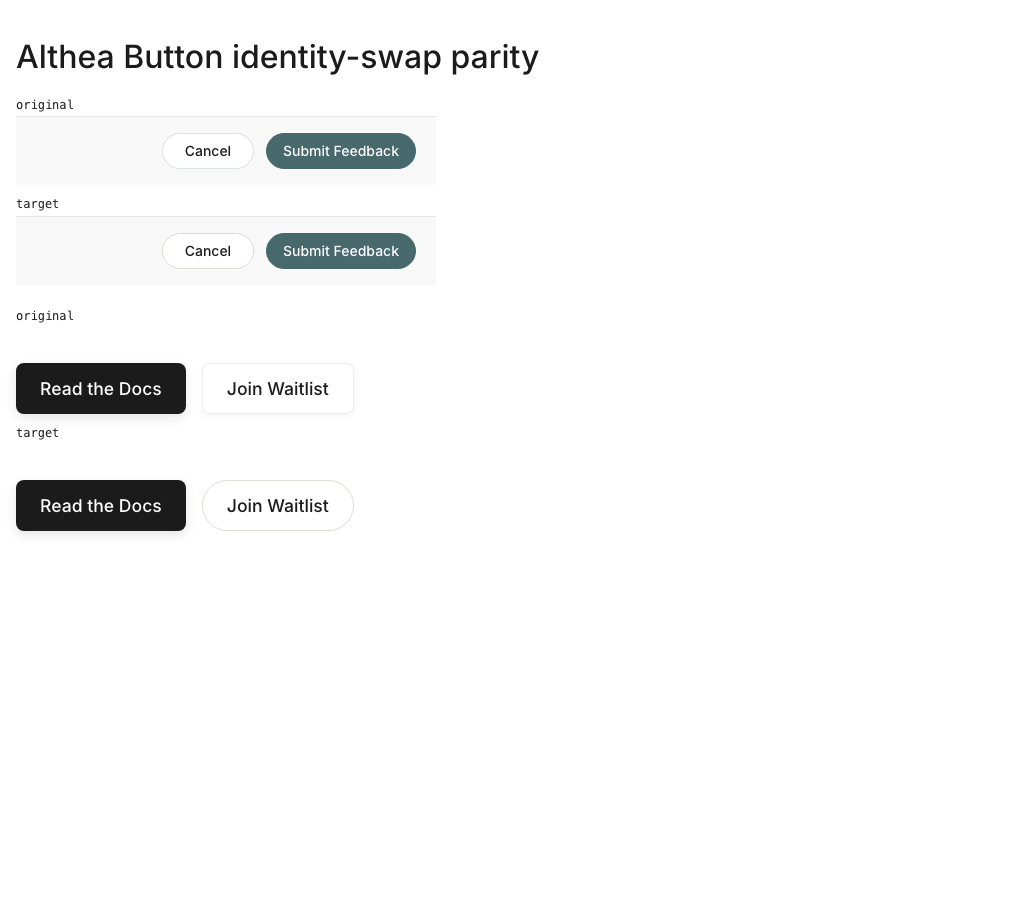
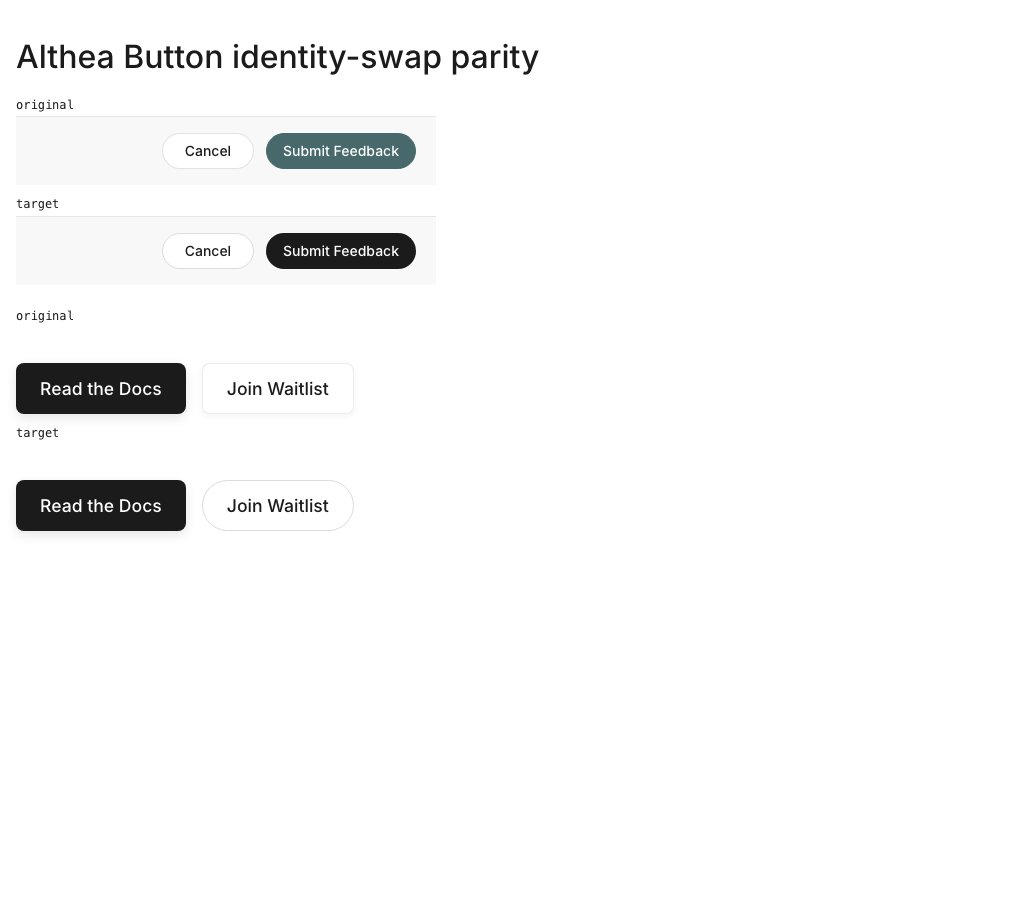
Add Button border-width geometry knob and Submit parity proof

Changed region(s): [[0.25, 0.2489, 0.4062, 0.3111]]

diff --git a/css/components/button.css b/css/components/button.css
@@ -24,7 +24,9 @@
     padding: var(--tt-btn-padding, 1px 14px);
     gap: var(--tt-btn-gap, 8px);
     white-space: nowrap;
-    border: 0 solid transparent;
+    border-width: var(--tt-btn-border-width, 0px);
+    border-style: solid;
+    border-color: transparent;
     border-radius: var(--tt-radius-full);
     font-family: var(--tt-font-sans);
     font-size: var(--tt-btn-font-size, 13px);
@@ -50,8 +52,8 @@
 
 /*
  * Geometry presets are convenience assignments over the sanctioned component
- * knobs. Consumers that need context-specific geometry set the same six knobs
- * on their own class; identity properties remain library-owned.
+ * knobs. Consumers that need context-specific geometry set the same seven
+ * knobs on their own class; identity properties remain library-owned.
  *
  * Updated docs Button provenance:
  *   docs/docs_server/web/src/styles/components/button.css:29-48
@@ -89,7 +91,7 @@
 .tt-btn--primary:hover { background: var(--tt-color-accent); color: var(--tt-brand-white); }
 .tt-btn--secondary {
     background: var(--tt-color-button-secondary-bg);
-    border-width: 1px;
+    --tt-btn-border-width: 1px;
     border-color: var(--tt-color-button-secondary-border);
     color: var(--tt-color-text-primary);
 }
@@ -101,6 +103,6 @@
 /* Secondary identity uses a hairline, halved on high-density displays. */
 @media (resolution >= 192dpi) {
     .tt-btn--secondary {
-        border-width: 0.5px;
+        --tt-btn-border-width: 0.5px;
     }
 }

diff --git a/showcase/index.html b/showcase/index.html
@@ -30,6 +30,7 @@
     --tt-btn-gap: 6px;
     --tt-btn-font-size: 14.4px;
     --tt-btn-line-height: normal;
+    --tt-btn-border-width: 0px;
   }
   .toggle { position: fixed; top: 16px; right: 16px; }
   .version { color: var(--tt-color-text-tertiary); font-size: 0.75rem; }
@@ -51,7 +52,7 @@
   <div class="swatches" id="semantic"></div>
 
   <h2>Button — tt-btn</h2>
-  <p class="lede">The library owns identity while consumers own contextual geometry through six custom properties. Presets and one real consumer-owned profile are shown simultaneously in both themes.</p>
+  <p class="lede">The library owns identity while consumers own contextual geometry through seven custom properties. Presets and one real consumer-owned profile are shown simultaneously in both themes.</p>
   <div class="theme-grid">
     <section class="theme-panel" data-theme="dark">
       <h3>Dark theme</h3>

diff --git a/docs/button-identity-deltas.md b/docs/button-identity-deltas.md
@@ -35,6 +35,22 @@ Rendered evidence is in `docs/evidence/parity-lacuna-button-v0.3.0.png` and
 | Hover text | `rgb(27, 27, 27)` | `rgb(27, 27, 27)` |
 | Hover border | `rgba(71, 105, 107, 0.34)` | `rgb(220, 220, 212)` |
 
+### Althea Submit Feedback
+
+| Identity property | Before | After |
+|---|---|---|
+| Background | `rgb(71, 105, 107)` | `rgb(27, 27, 27)` |
+| Text | `rgb(255, 255, 255)` | `rgb(255, 255, 255)` |
+| Border | `rgb(71, 105, 107)` | `rgba(0, 0, 0, 0)` |
+| Radius | `999px` | `9999px` |
+| Font | Althea Inter stack, weight `500` | Tiptree Inter stack, weight `510` |
+| Hover background | `rgb(53, 88, 90)` | `rgb(71, 105, 107)` |
+| Hover text | `rgb(255, 255, 255)` | `rgb(255, 255, 255)` |
+| Hover border | `rgb(53, 88, 90)` | `rgba(0, 0, 0, 0)` |
+
+Its original 1px border geometry is preserved through
+`--tt-btn-border-width`; border style and color remain library identity.
+
 ### Althea Platform Join Waitlist
 
 | Identity property | Before | After |
@@ -58,7 +74,7 @@ before any consumer branch is considered for production adoption.
 |---|---|---|
 | Lacuna Read Paper action | Reverted | Candidate width changed `120.4375px` → `119.234375px`, shifting its adjacent metadata by `1.203125px`; the identity font weight changed intrinsic width. |
 | Lacuna Read Paper link | Not migrated | A measured candidate was within tolerance, but Button-styled navigation-link migration is explicitly outside v0.3 scope. |
-| Althea Submit Feedback | Reverted | Candidate border changed `1px` → `0px`, width changed `150.078125px` → `148.078125px`, and the neighboring Cancel position shifted `2px`. |
+| Althea Submit Feedback | Resolved and retained | The initial six-knob candidate failed because border width changed `1px` → `0px`. With the approved seventh geometry knob set to `1px`, width, border widths, parent, and sibling positions all match at `0.000px` across desktop/mobile and DPR 1/2. |
 
-These failures were not hidden with app-specific width adjustments. The final
-consumer branches retain their original implementations.
+The remaining failure was not hidden with an app-specific width adjustment.
+Lacuna Read Paper retains its original implementation.

diff --git a/specs/button.md b/specs/button.md
@@ -1,4 +1,4 @@
-# Button — component contract v1.2
+# Button — component contract v1.3
 
 Seeded from the former docs-new Button and reconciled against the updated docs
 Button, Lacuna, and Althea. The contract every binding is conformance-tested
@@ -43,6 +43,7 @@ properties:
 | `--tt-btn-gap` | content/icon gap | `8px` |
 | `--tt-btn-font-size` | font size | `13px` |
 | `--tt-btn-line-height` | line height | `normal` |
+| `--tt-btn-border-width` | border width in the box model | `0px` |
 
 Set knobs on a consumer-owned class attached to the same element; never
 redeclare `.tt-btn` or another `.tt-*` rule:
@@ -55,6 +56,7 @@ redeclare `.tt-btn` or another `.tt-*` rule:
   --tt-btn-gap: 6px;
   --tt-btn-font-size: 14.4px;
   --tt-btn-line-height: normal;
+  --tt-btn-border-width: 0px;
 }
 ```
 
@@ -64,8 +66,11 @@ icon/layout CSS.
 
 ### Presets
 
-The three library presets are convenience assignments over the same six knobs,
-seeded from the updated docs Button:
+The three library size presets assign the six size-related knobs, seeded from
+the updated docs Button. Border width is independent of size: identity variants
+provide their default (`secondary` is `1px`, with its existing high-density
+hairline), and a consumer sets `--tt-btn-border-width` only when preserving a
+source control's box geometry.
 
 | Preset | Height / min-height | Padding | Gap | Font size / line height | Provenance |
 |---|---|---|---|---|---|
@@ -80,6 +85,10 @@ rationalization evidence, not public library variants.
 Border radius is identity, not geometry. A migration may therefore change a
 control's radius even when its layout tuple remains exact; every radius delta is
 recorded alongside color and other identity deltas for designer review.
+Border width is geometry because it participates in the box model; border style
+and border color remain identity. Font family and weight also remain identity
+and have no knobs. If either changes intrinsic dimensions beyond the parity
+tolerance, that usage is rejected rather than given a font-weight override.
 
 ## Behavior & accessibility (engineer-owned)
 

diff --git a/docs/DECISION_LEDGER.md b/docs/DECISION_LEDGER.md
@@ -153,3 +153,31 @@ Append-only record of scope decisions, pinned integration inputs, and acceptance
   emulation even while the high-density media query matches. A physical-device
   browser check remains prudent before a production merge; no result is
   fabricated from the CSS declaration alone.
+
+## 2026-07-24 — Border-width geometry knob and Submit re-proof
+
+- Decision owner: Richard. Border width is the seventh sanctioned Button
+  geometry knob because it participates in the box model. Border style and
+  color remain library identity.
+- Font family and weight remain library identity with no consumer override.
+  When they change intrinsic dimensions beyond the `0.5px` gate, the usage is
+  rejected; Lacuna Read Paper therefore remains unmigrated.
+- Althea Submit Feedback sets `--tt-btn-border-width: 1px` on its existing
+  consumer geometry class. Height, min-height, width, padding, gap, font size,
+  line height, all four border widths, parent bounds, and sibling positions
+  match at `0.000px` across desktop/mobile and DPR 1/2.
+- Submit is retained on the local `tt/button-parity` branch. Its teal-to-black
+  background, transparent border color, radius, hover, and font-weight changes
+  are recorded in `docs/button-identity-deltas.md` for designer approval.
+- Replacement unpublished v0.3.0 npm candidate:
+  `/Users/richardngo/Desktop/Work/Upwork/Tiptree/design-system/dist/npm/tiptree-design-system-0.3.0.tgz`;
+  8,053 bytes; SHA-256
[1 lines of base64/hex data omitted]
+- Replacement unpublished v0.3.0 Python candidate:
+  `/Users/richardngo/Desktop/Work/Upwork/Tiptree/design-system/dist/py312/tiptree_ui-0.3.0-py3-none-any.whl`;
+  13,078 bytes; SHA-256
[1 lines of base64/hex data omitted]
+- These candidates supersede the earlier local v0.3.0 artifacts above. Version
+  remains v0.3.0 because no v0.3.0 artifact has been published or tagged.
+- Final bounded outcome: four retained identity swaps, one rejected for
+  geometry, and one navigation-link usage not migrated by scope.

diff --git a/docs/button-parity-inventory.md b/docs/button-parity-inventory.md
@@ -295,6 +295,20 @@ deltas for designer review.
   anchor-policy ruling.
 
 The full computed identity comparison for retained usages is in
-`docs/button-identity-deltas.md`. Both rejected candidates remain valuable
-evidence: the six geometry knobs cannot preserve layout when a library-owned
-identity property itself changes intrinsic geometry.
+`docs/button-identity-deltas.md`. Both initially rejected candidates remain
+valuable evidence: the original six geometry knobs could not preserve layout
+when a library-owned identity property itself changes intrinsic geometry.
+
+## Border-width geometry ruling — 2026-07-24
+
+Richard approved `--tt-btn-border-width` as the seventh Button geometry knob.
+Border width participates in the box model; border style and color remain
+library identity. Re-running Althea Submit Feedback with its source 1px width
+produced `0.000px` layout and reflow delta at desktop/mobile and DPR 1/2, so the
+migration is now retained.
+
+Font family and weight remain identity with no consumer knob. This does not
+disturb Althea Submit's bundled Inter metrics, but it still moves Lacuna Read
+Paper by `1.203125px`; that usage remains rejected. The final bounded result is
+four retained migrations, one geometry rejection, and one navigation-link
+usage intentionally outside scope.

diff --git a/docs/USING.md b/docs/USING.md
@@ -64,7 +64,8 @@ The `layered/` variants exist only for hosts whose entire cascade is layered.
 
 Button identity stays in `.tt-btn` plus `tt-btn--primary`, `--secondary`, or
 `--ghost`. Contextual size belongs to the app and uses only the six documented
-geometry knobs:
+size knobs. Border width is a seventh geometry knob because it participates in
+the box model:
 
 ```css
 .account-save {
@@ -74,6 +75,7 @@ geometry knobs:
   --tt-btn-gap: 6px;
   --tt-btn-font-size: 14px;
   --tt-btn-line-height: 1;
+  --tt-btn-border-width: 1px;
 
   /* Ordinary app layout, not component knobs. */
   width: 100%;
@@ -85,6 +87,8 @@ Never redeclare `.tt-btn` or use these knobs to control color, radius, fonts,
 states, or another identity property. Width and margin are deliberately not
 knobs; set them on your own class as normal layout CSS. Use `tt-btn--sm`,
 `tt-btn--md`, or `tt-btn--lg` when one of the docs-derived presets already fits.
+Border style and color remain library identity. Font family and weight remain
+identity with no consumer knob; a font-metric parity failure rejects that usage.
 
 ## Static sites (docs)
 
